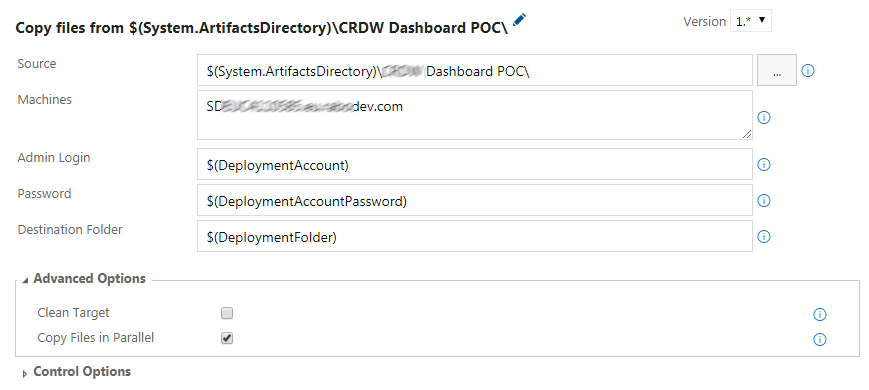
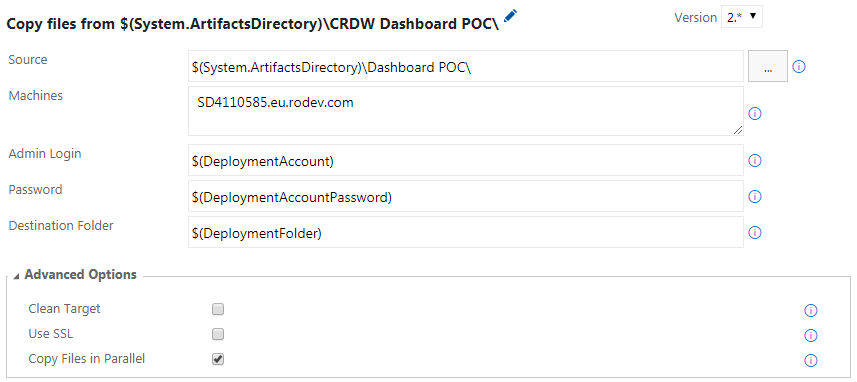
Added SSL support

diff --git a/README.md b/README.md
@@ -12,11 +12,12 @@ The only requirement is PowerShell V5 installed both on the build server and on 
 
 ### The different parameters of the task are explained below:
 
-*	**Source**: The source of the files. As described above using pre-defined system variables like $(Build.Repository.LocalPath) make it easy to specify the location of the build on the Build Automation Agent machine. The variables resolve to the working folder on the agent machine, when the task is run on it. Wild cards like **\*.zip are not supported.
-* **Machines**: Specify comma separated list of machine FQDNs/ip addresses along with port(optional). For example dbserver.fabrikam.com, dbserver_int.fabrikam.com:5986,192.168.34:5986.  
-* **Admin Login**: Domain/Local administrator of the target host. Format: &lt;Domain or hostname&gt;\ &lt; Admin User&gt;.  
+*	**Source**: The source of the files. As described above using pre-defined system variables like $(Build.Repository.LocalPath) make it easy to specify the location of the build on the Build Automation Agent machine. The variables resolve to the working folder on the agent machine, when the task is run on it. Wild cards like **\\*.zip are not supported. Probably you are going to copy something from your artifacts folder that was generated in previous steps of your build/release, at example '$(System.ArtifactsDirectory)\\Something'.
+* **Machines**: Specify comma separated list of machine FQDNs/ip addresses along with port(optional). For example dbserver.fabrikam.com, dbserver_int.fabrikam.com:5988,192.168.34:5933.
+* **Admin Login**: Domain/Local administrator of the target host. Format: &lt;Domain or hostname&gt;\\&lt; Admin User&gt;.  
 * **Password**:  Password for the admin login. It can accept variable defined in Build/Release definitions as '$(passwordVariable)'. You may mark variable type as 'secret' to secure it.  
-*	**Destination Folder**: The folder in the Windows machines where the files will be copied to. An example of the destination folder is c:\FabrikamFibre\Web.
+*	**Destination Folder**: The folder in the Windows machines where the files will be copied to. An example of the destination folder is c:\\FabrikamFibre\\Web.
+*	**Use SSL**: In case you are using secure WinRM, HTTPS for transport, this is the setting you will need to flag.
 *	**Clean Target**: Checking this option will clean the destination folder prior to copying the files to it.
 *	**Copy Files in Parallel**: Checking this option will copy files to all the target machines in parallel, which can speed up the copying process.
 

diff --git a/src/README.md b/src/README.md
@@ -12,10 +12,11 @@ The only requirement is PowerShell V5 installed both on the build server and on 
 
 ### The different parameters of the task are explained below:
 
-*	**Source**: The source of the files. As described above using pre-defined system variables like $(Build.Repository.LocalPath) make it easy to specify the location of the build on the Build Automation Agent machine. The variables resolve to the working folder on the agent machine, when the task is run on it. Wild cards like **\*.zip are not supported.
-* **Machines**: Specify comma separated list of machine FQDNs/ip addresses along with port(optional). For example dbserver.fabrikam.com, dbserver_int.fabrikam.com:5986,192.168.34:5986.  
-* **Admin Login**: Domain/Local administrator of the target host. Format: &lt;Domain or hostname&gt;\ &lt; Admin User&gt;.  
+*	**Source**: The source of the files. As described above using pre-defined system variables like $(Build.Repository.LocalPath) make it easy to specify the location of the build on the Build Automation Agent machine. The variables resolve to the working folder on the agent machine, when the task is run on it. Wild cards like **\\*.zip are not supported. Probably you are going to copy something from your artifacts folder that was generated in previous steps of your build/release, at example '$(System.ArtifactsDirectory)\\Something'.
+* **Machines**: Specify comma separated list of machine FQDNs/ip addresses along with port(optional). For example dbserver.fabrikam.com, dbserver_int.fabrikam.com:5988,192.168.34:5933.
+* **Admin Login**: Domain/Local administrator of the target host. Format: &lt;Domain or hostname&gt;\\&lt; Admin User&gt;.  
 * **Password**:  Password for the admin login. It can accept variable defined in Build/Release definitions as '$(passwordVariable)'. You may mark variable type as 'secret' to secure it.  
-*	**Destination Folder**: The folder in the Windows machines where the files will be copied to. An example of the destination folder is c:\FabrikamFibre\Web.
+*	**Destination Folder**: The folder in the Windows machines where the files will be copied to. An example of the destination folder is c:\\FabrikamFibre\\Web.
+*	**Use SSL**: In case you are using secure WinRM, HTTPS for transport, this is the setting you will need to flag.
 *	**Clean Target**: Checking this option will clean the destination folder prior to copying the files to it.
 *	**Copy Files in Parallel**: Checking this option will copy files to all the target machines in parallel, which can speed up the copying process.
